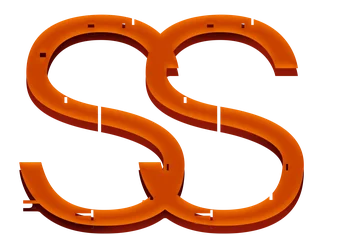
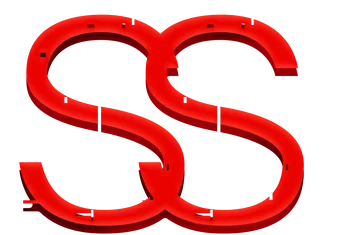
Redraw the SS badges and keep the script that styles them
SS, SS3 and SS6 use the new red art, with the same satin face, side and
shadow as the other ranks. Overlay barely moves a pure red, so the
highlight adds lightness on this tier.

tools/style-ranks.py keeps that recipe for the next time the icons change.

web() moves to ?v=4 so browsers drop the badges cached under the same names.

Changed region(s): [[0.0306, 0.0596, 0.8556, 1.0]]

diff --git a/app.js b/app.js
@@ -551,8 +551,8 @@ const slug = s => s.toLowerCase().replace(/\s+/g, "-");
 const esc = s => String(s).replace(/[&<>"]/g, c => ({ "&": "&amp;", "<": "&lt;", ">": "&gt;", '"': "&quot;" }[c]));
 // Images load from the light copies made by tools/optimize-images.mjs. The data keeps the original path, which stays in
 // data-full: the error handler falls back to it, and style.css reads its extension to scale the memory art
-// ?v=2: browsers kept the old rank badges for 7 days under these same names, and a new address is the only way past that copy
-const web = src => src.replace("assets/", "assets-web/") + ".webp" + (src.startsWith("assets/rank/") ? "?v=2" : "");
+// ?v=4: browsers kept the old rank badges for 7 days under these same names, and a new address is the only way past that copy
+const web = src => src.replace("assets/", "assets-web/") + ".webp" + (src.startsWith("assets/rank/") ? "?v=4" : "");
 const pic = (src, attrs = 'alt=""') => `<img src="${esc(web(src))}" data-full="${esc(src)}" ${attrs} loading="lazy" decoding="async">`;
 // Name shown when hovering an icon, read from its file name ("Memória - Cottie 1-4.png" is "Cottie")
 function iconName(src = "") {

diff --git a/tools/style-ranks.py b/tools/style-ranks.py
@@ -1,0 +1,139 @@
+#!/usr/bin/env python3
+"""Turns the flat rank icons into the badges in assets/rank/, using the layer recipe of SSS+ in the PSD:
+a face with a satin highlight over a darker side, and a shadow. SSS+ comes styled from the PSD, so it is not made here.
+
+Run it with: python tools/style-ranks.py <folder> [--out <folder>]     Then: node tools/optimize-images.mjs
+<folder> holds the flat icons on the 20000x10000 canvas, named after the rank (SS.png, SS3.png...). Ranks with no file are left alone.
+After it, raise the ?v= number of the rank art in web() in app.js: browsers keep the old badge for 7 days under the same name.
+Needs: pip install pillow numpy scipy
+"""
+import os, sys
+import numpy as np
+from PIL import Image
+from scipy import ndimage as ni
+
+Image.MAX_IMAGE_PIXELS = None
+HERE = os.path.dirname(os.path.abspath(__file__))
+K = 8  # works at 1/K of the canvas
+W, H = 20000 // K, 10000 // K
+CUT = 480  # a gap taller than this (full-scale px) is the cut through the S, not a notch
+SIZE = (360, 235)
+BOX = (3540, 120, 17940, 9520)  # the part of the canvas every badge shows, so all of them line up
+
+# side and shade are the darker colours of each tier. The face and the digit are read from the art.
+# lift: Overlay barely moves a pure red, so the highlight adds this much lightness to each channel
+TIERS = {
+    "S": dict(side=(140, 24, 8), shade=(52, 0, 2), lift=None, digit_at=13450),
+    "SS": dict(side=(150, 0, 8), shade=(58, 0, 2), lift=(1, .27, .2), digit_at=15820),
+    "SSS": dict(side=(240, 120, 20), shade=(125, 30, 0), lift=None, digit_at=16540),
+}
+# Rank, tier, whether it has a digit, and how far right the source sits from its place (S.png is drawn 5000px to the left)
+ICONS = [("S", "S", False, 5000), ("S5", "S", True, 0), ("SS", "SS", False, 0), ("SS3", "SS", True, 0), ("SS6", "SS", True, 0),
+         ("SSS", "SSS", False, 0), ("SSS3", "SSS", True, 0), ("SSS6", "SSS", True, 0)]
+
+
+def load(path, dx):
+    """The source at 1/K scale, on a canvas of the full size."""
+    im = Image.open(path).convert("RGBA")
+    im = im.resize((im.width // K, im.height // K), Image.BOX)
+    canvas = Image.new("RGBA", (W, H), (0, 0, 0, 0))
+    canvas.paste(im, (dx // K, 0))
+    return np.asarray(canvas)
+
+
+def solid_colour(px):
+    """The colour of the fully opaque part of the art."""
+    return tuple(int(v) for v in np.median(px[px[..., 3] == 255][:, :3], axis=0))
+
+
+def shift(a, dy):
+    dy = int(round(dy / K))
+    out = np.zeros_like(a)
+    if dy > 0: out[dy:] = a[:-dy]
+    elif dy < 0: out[:dy] = a[-dy:]
+    else: out[:] = a
+    return out
+
+
+def satin(a, dist, blur):
+    """Photoshop Satin at 90 degrees: the blurred shape against itself, moved up and down."""
+    b = ni.gaussian_filter(a, blur * .5 / K)
+    return np.clip(np.abs(shift(b, dist) - shift(b, -dist)), 0, 1)
+
+
+def overlay(base, s, lift):
+    """White in Overlay mode, with the satin as its opacity."""
+    white = np.where(base < .5, 2 * base, 1.0)
+    if lift: white = np.maximum(white, np.minimum(base + np.array(lift, np.float32), 1))
+    return base * (1 - s) + white * s
+
+
+def rgb(c):
+    return np.array(c, np.float32) / 255
+
+
+def over(dst, col, a):
+    da = dst[..., 3]
+    oa = a + da * (1 - a)
+    dst[..., :3] = (col * a[..., None] + dst[..., :3] * (da * (1 - a))[..., None]) / np.maximum(oa, 1e-6)[..., None]
+    dst[..., 3] = oa
+
+
+def close_notches(a, r):
+    """The side has no notches (Camada 1 in the PSD paints them over). Closes small slots, leaves the long cut through each S open."""
+    grown = ni.distance_transform_edt(a <= .5) <= r
+    closed = ni.distance_transform_edt(grown) > r
+    gaps, n = ni.label(closed & (a <= .5))
+    small = np.zeros(n + 1, bool)
+    for i, o in enumerate(ni.find_objects(gaps)):
+        small[i + 1] = (o[0].stop - o[0].start) * K < CUT
+    return np.maximum(a, small[gaps].astype(np.float32))
+
+
+def block(dst, a, face, tier, mask, depth=315, sat=(121, 250), sat2=(87, 250), closer=120):
+    """One shape: the side (shade satin, flat colour through the painted mask) under a face with a white Overlay satin."""
+    raised = 75
+    sa = shift(close_notches(a, closer / K), depth - raised)
+    inv = (1 - satin(sa, *sat2))[..., None]
+    col = rgb(tier["side"]) * (1 - inv) + rgb(tier["shade"]) * inv
+    col = col * (1 - mask[..., None]) + rgb(tier["side"]) * mask[..., None]
+    over(dst, col, sa)
+    fa = shift(a, -raised)
+    over(dst, overlay(rgb(face)[None, None, :], satin(fa, *sat)[..., None], tier["lift"]), fa)
+
+
+def main():
+    args = sys.argv[1:]
+    out = os.path.join(HERE, "..", "assets", "rank")
+    if "--out" in args:
+        i = args.index("--out")
+        out = args[i + 1]
+        del args[i:i + 2]
+    if len(args) != 1:
+        sys.exit(__doc__)
+    os.makedirs(out, exist_ok=True)
+    mask = np.asarray(Image.open(os.path.join(HERE, "rank-side-mask.png")).resize((W, H), Image.BILINEAR), np.float32) / 255
+    done = 0
+    for name, tier_name, has_digit, dx in ICONS:
+        path = os.path.join(args[0], f"{name}.png")
+        if not os.path.exists(path): continue
+        tier = TIERS[tier_name]
+        px = load(path, dx)
+        a = px[..., 3].astype(np.float32) / 255
+        cut = tier["digit_at"] // K if has_digit else W
+        letters = a.copy()
+        letters[:, cut:] = 0
+        badge = np.zeros((H, W, 4), np.float32)
+        block(badge, letters, solid_colour(px[:, :cut]), tier, mask)
+        if has_digit:
+            digit = a.copy()
+            digit[:, :cut] = 0
+            block(badge, digit, solid_colour(px[:, cut:]), tier, mask * 0 + 1, depth=175, sat=(40, 85), sat2=(30, 85), closer=8)
+        im = Image.fromarray((np.clip(badge, 0, 1) * 255 + .5).astype(np.uint8), "RGBA")
+        im.crop(tuple(v // K for v in BOX)).resize(SIZE, Image.LANCZOS).save(os.path.join(out, f"{name}.png"), optimize=True)
+        print(f"{name}.png pronto", flush=True)
+        done += 1
+    print(f"{done} ícone(s) gerado(s) em {os.path.normpath(out)}." if done else f"Nenhum ícone encontrado em {args[0]}.")
+
+
+main()

diff --git a/CLAUDE.md b/CLAUDE.md
@@ -15,6 +15,7 @@ Textos do site e comentários do código ficam em inglês. Mensagens das ferrame
 | `data/timeline-data.js` | Gerado por `tools/update-timeline.mjs`; não edite à mão |
 | `assets/` | Artes originais, e é para onde os caminhos do código apontam |
 | `assets-web/` | Cópias leves geradas por `tools/optimize-images.mjs`; `web()` no `app.js` troca o caminho ao renderizar. Nunca edite à mão |
+| `tools/style-ranks.py` | Aplica o relevo do SSS+ aos ícones de rank chapados e grava em `assets/rank/`. Instruções no topo do arquivo |
 | `.deploy/`, `.smoke/` | Saídas geradas, fora do git |
 
 ## Economizar contexto
